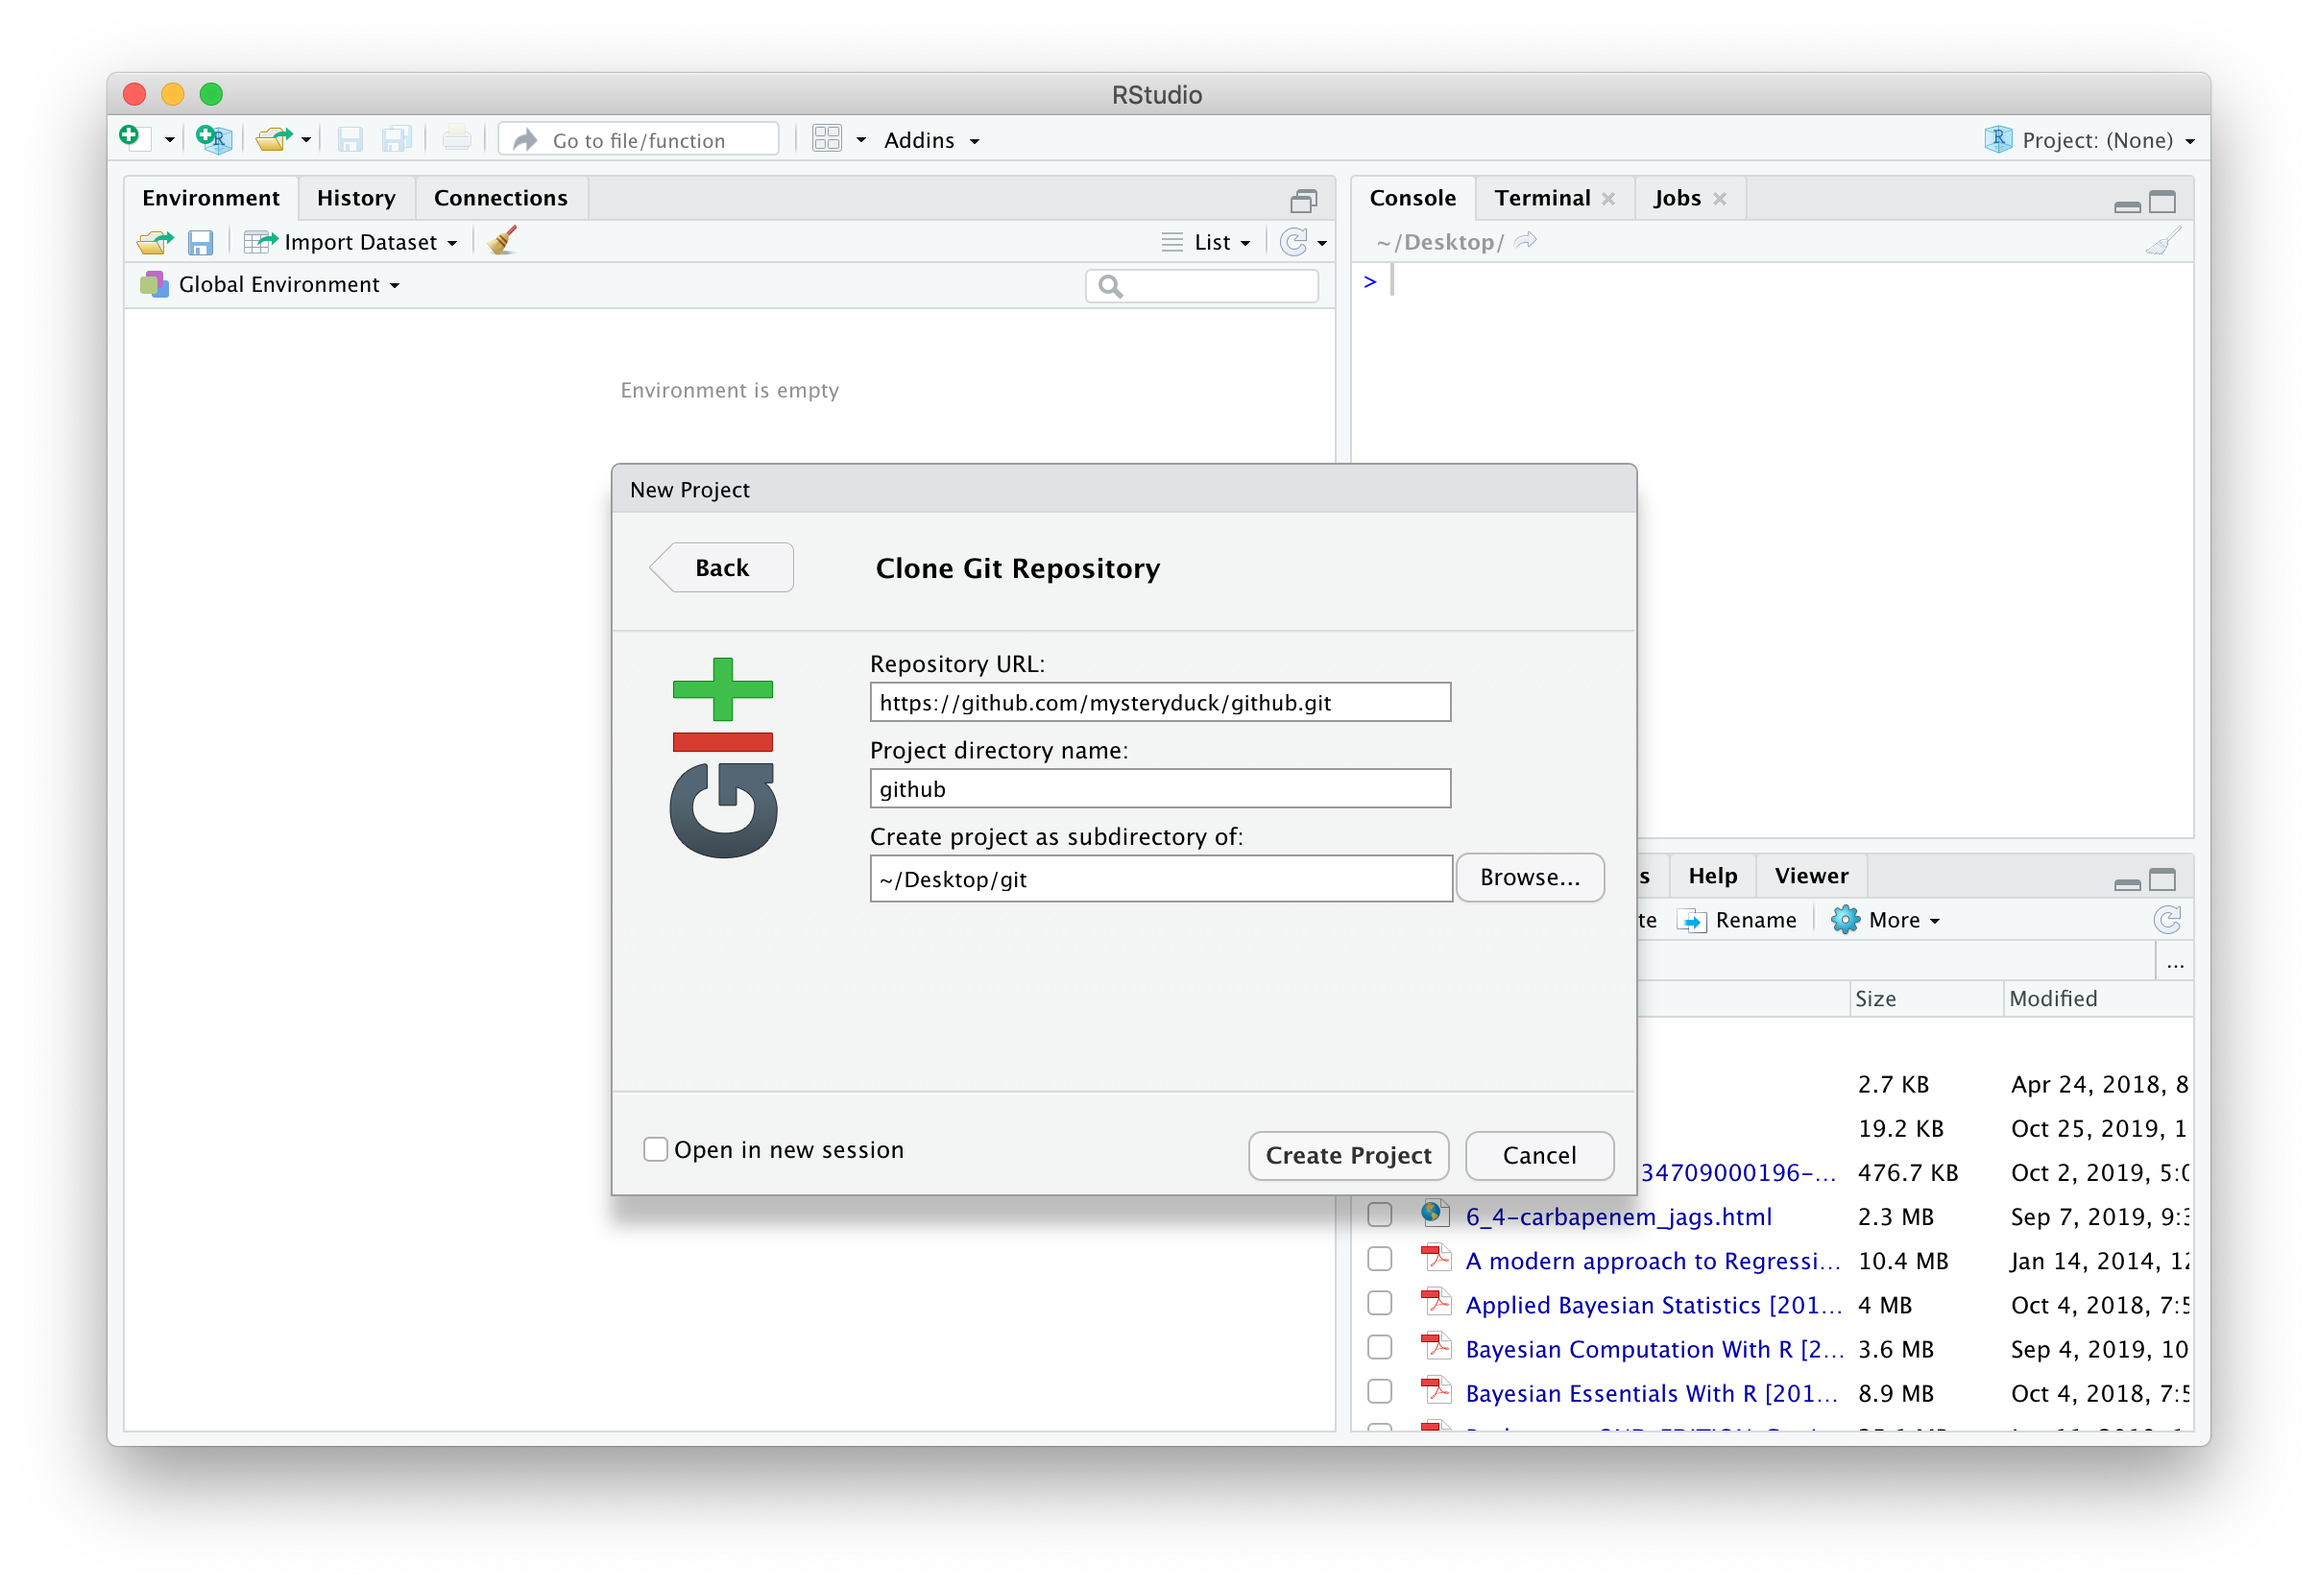
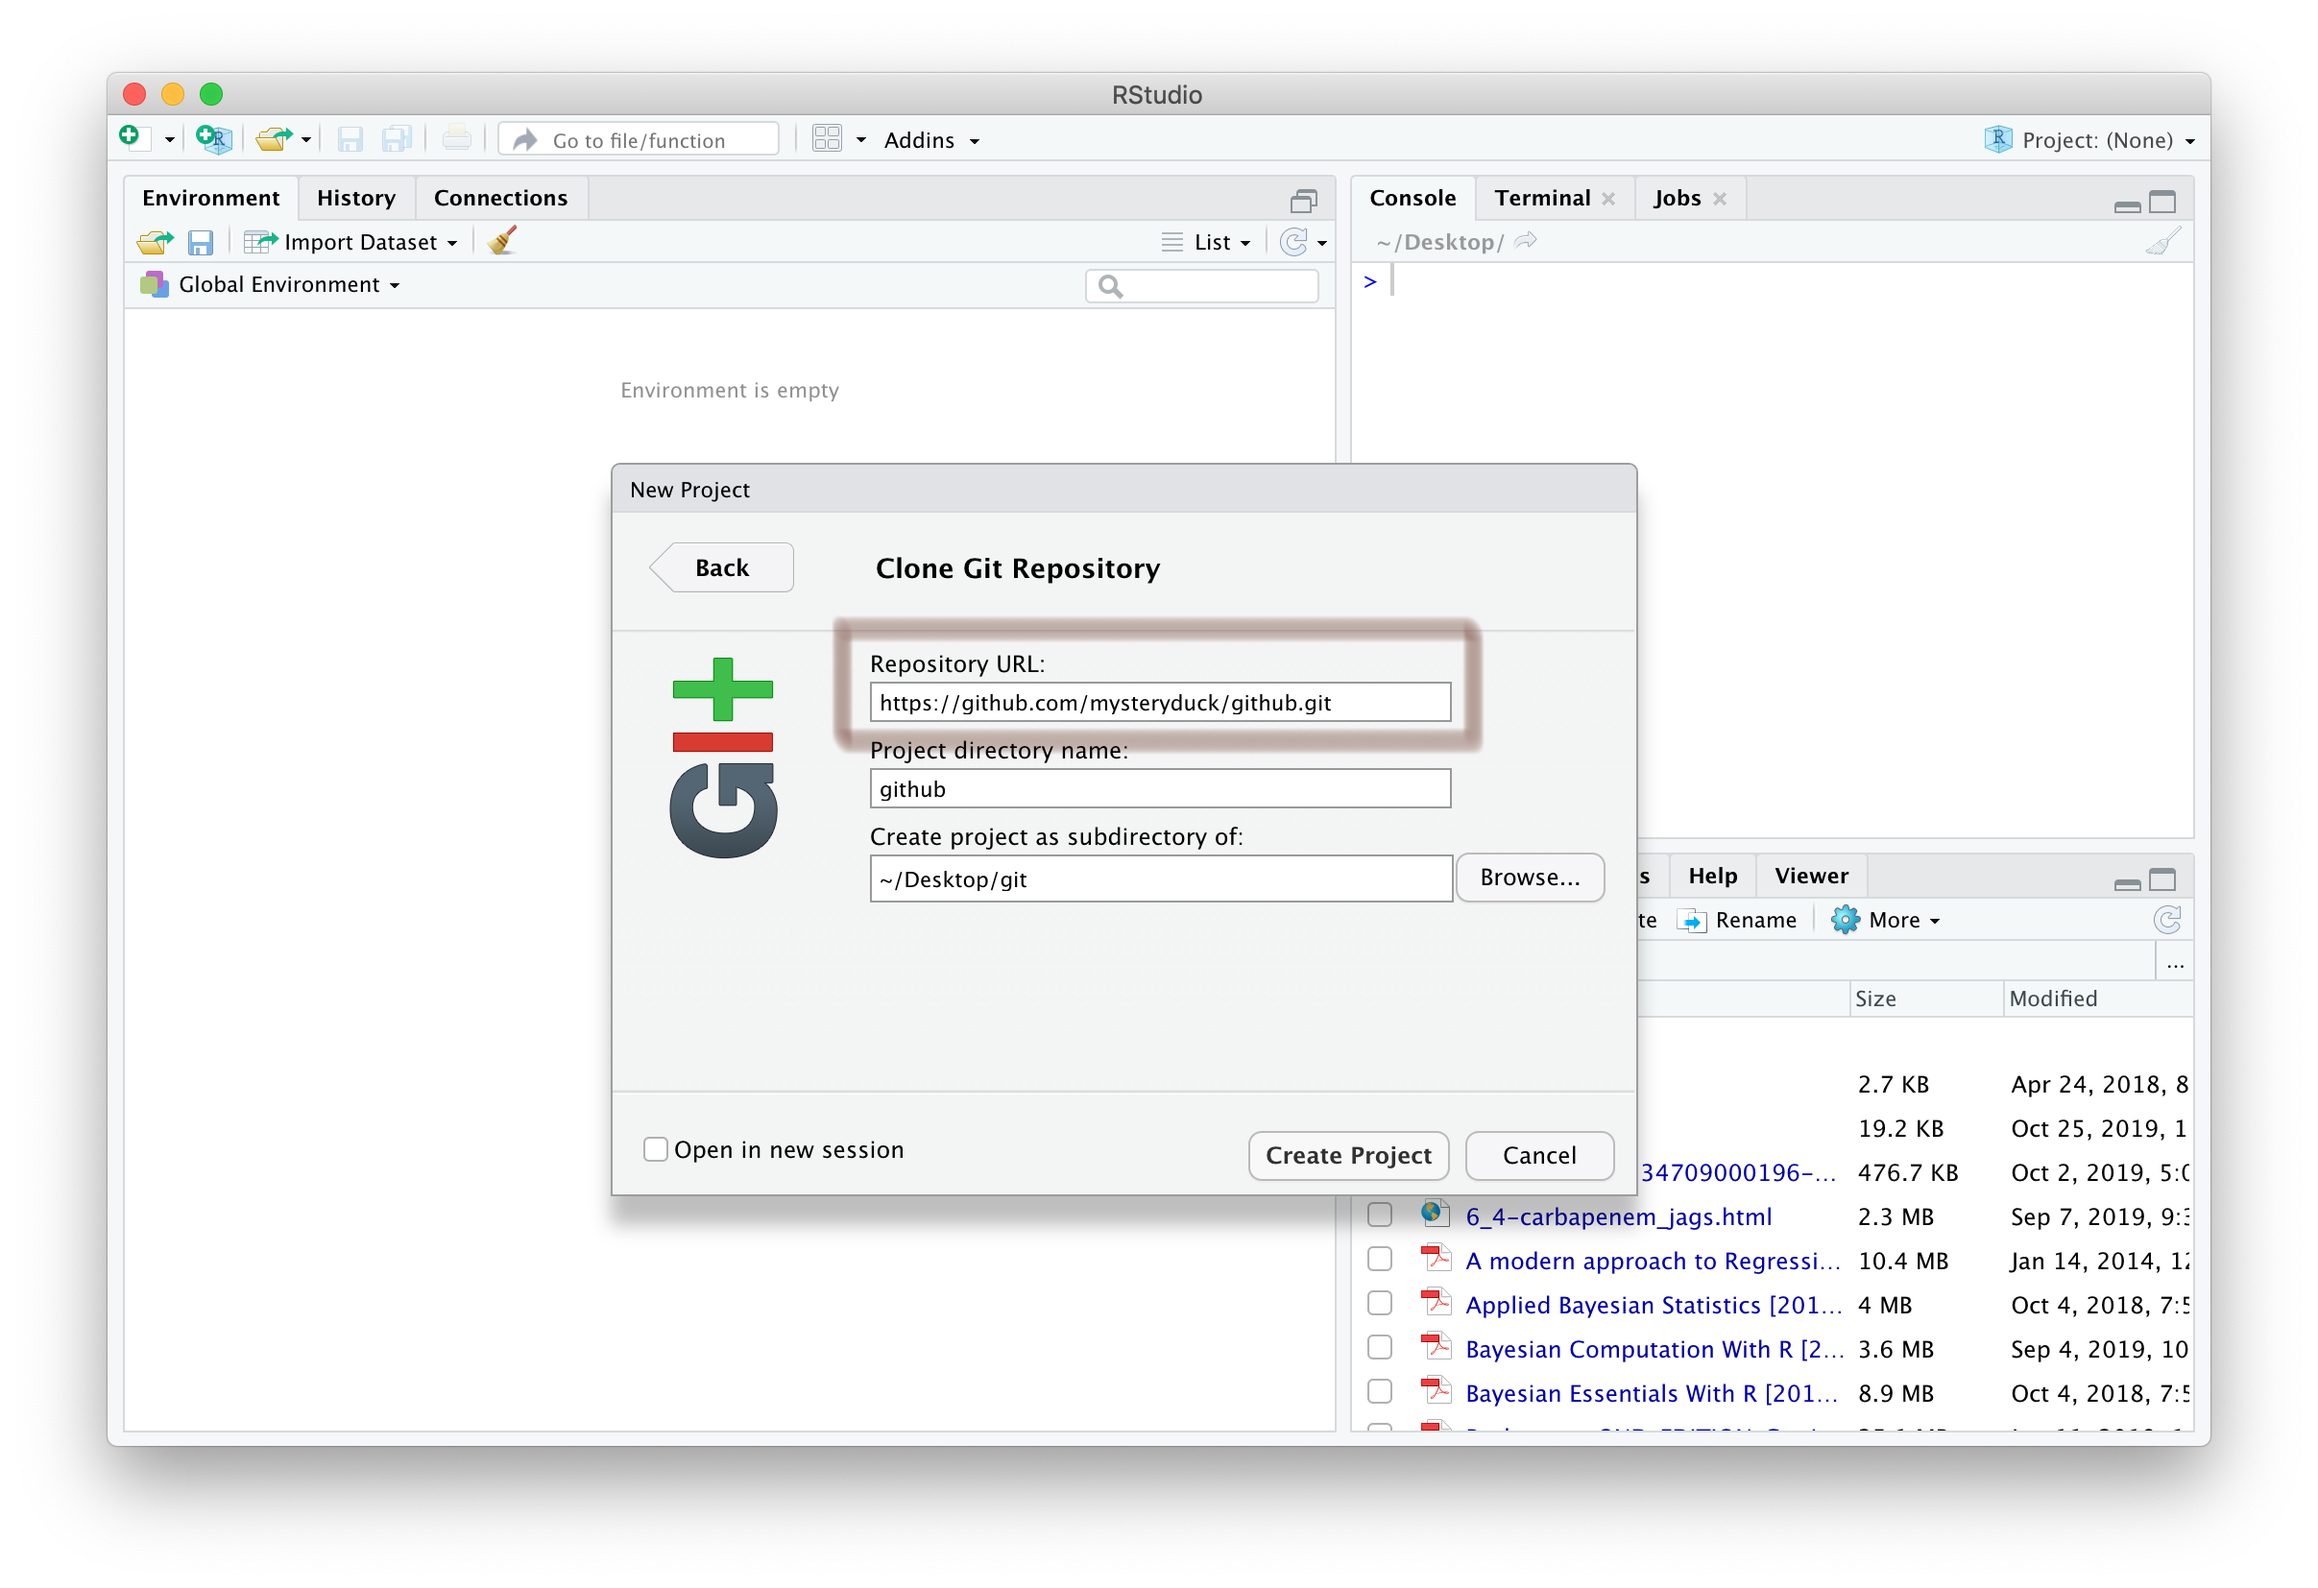
Edits to README

Changed region(s): [[0.3418, 0.37, 0.6524, 0.4933]]

diff --git a/README.md b/README.md
@@ -1,3 +1,24 @@
 # github
 
+
+Create a new GitHub repository
 ![alt text](https://github.com/mysteryduck/github/blob/master/img/1-1.png)
+
+Choose a short, descriptive name for your project, and initialise the project 
+with a README file
+![alt text](https://github.com/mysteryduck/github/blob/master/img/1-2.png)
+
+Now copy and paste the URL associated with your GitHub repository
+![alt text](https://github.com/mysteryduck/github/blob/master/img/1-3.png)
+
+In RStudio, create a new project
+![alt text](https://github.com/mysteryduck/github/blob/master/img/2-1.png)
+
+Make sure your new project includes version control
+![alt text](https://github.com/mysteryduck/github/blob/master/img/2-2.png)
+
+Select the option to clone a project from a GitHub repository
+![alt text](https://github.com/mysteryduck/github/blob/master/img/2-3.png)
+
+Copy and paste your GitHub repository URL into the first box
+![alt text](https://github.com/mysteryduck/github/blob/master/img/2-4.png)
